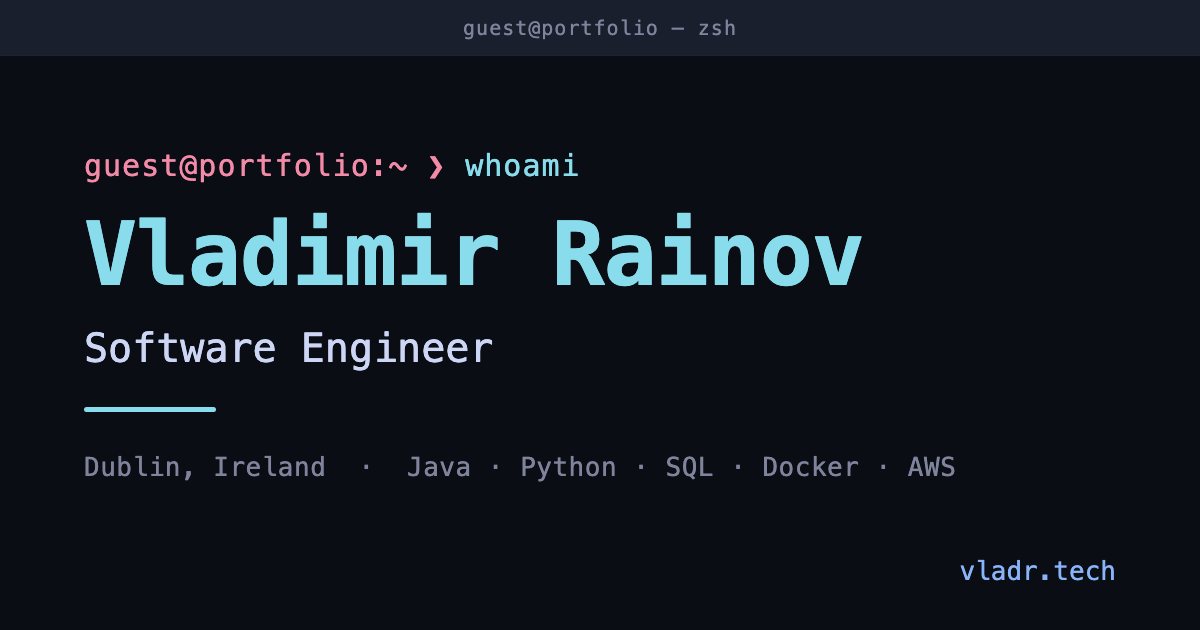
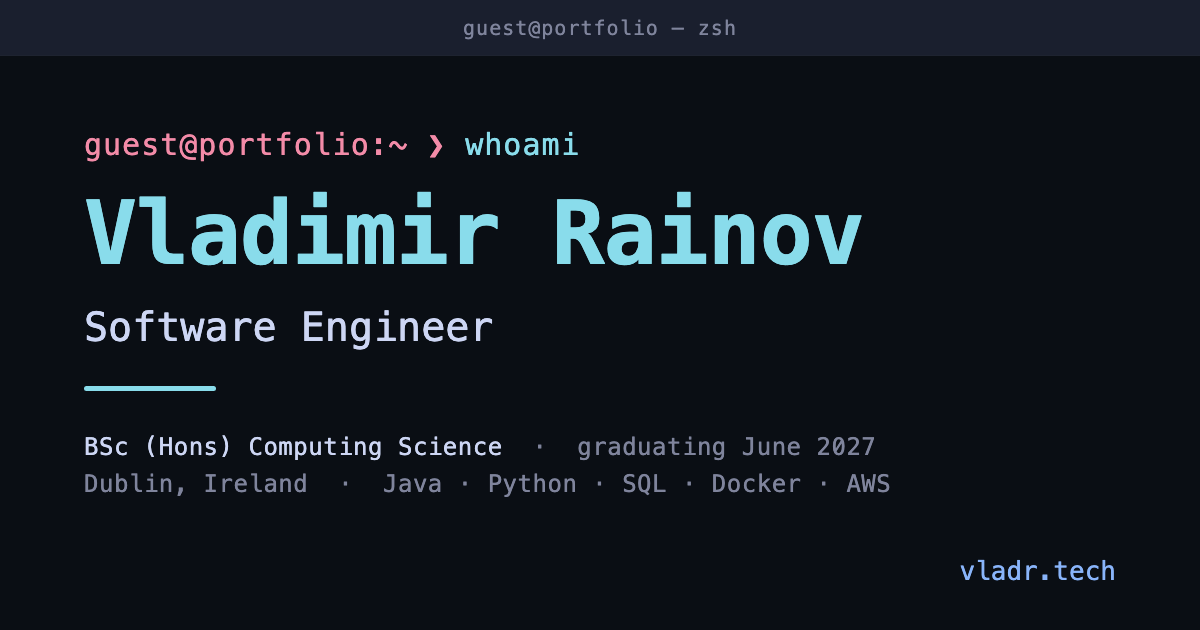
theme and fonts fixes

diff --git a/index.html b/index.html
@@ -4,9 +4,9 @@
   <meta charset="UTF-8" />
   <meta name="viewport" content="width=device-width, initial-scale=1.0" />
   <meta http-equiv="Content-Security-Policy" content="default-src 'self'; script-src 'self'; style-src 'self' https://fonts.googleapis.com; font-src 'self' https://fonts.gstatic.com; img-src 'self' data:; connect-src 'self';" />
-  <meta name="description" content="Vladimir Rainov — Software Engineer portfolio. Computing Science student at Griffith College Dublin." />
+  <meta name="description" content="Vladimir Rainov — Software Engineer portfolio. Final-year BSc (Hons) Computing Science student at Griffith College Dublin, graduating June 2027. Java, Python, SQL, Docker, Kubernetes, AWS. Seeking a graduate software engineering role in Dublin, Ireland." />
   <meta name="author" content="Vladimir Rainov" />
-  <meta name="keywords" content="software engineer, developer, portfolio, Dublin, Griffith College, cloud, DevOps, Linux" />
+  <meta name="keywords" content="graduate software engineer, software developer, portfolio, Dublin, Ireland, Griffith College, Java, Python, SQL, cloud, DevOps, Linux" />
   <title>Vladimir Rainov — Software Engineer Portfolio</title>
   <link rel="canonical" href="https://vladr.tech/" />
   <link rel="icon" href="/favicon.svg" type="image/svg+xml" />
@@ -16,7 +16,7 @@
   <meta property="og:type" content="profile" />
   <meta property="og:site_name" content="Vladimir Rainov — Portfolio" />
   <meta property="og:title" content="Vladimir Rainov — Software Engineer Portfolio" />
-  <meta property="og:description" content="Computing Science student at Griffith College Dublin. Experience in SQL/core banking systems, hardware integration, Linux, Docker, Kubernetes, AWS." />
+  <meta property="og:description" content="Final-year BSc (Hons) Computing Science student at Griffith College Dublin, graduating June 2027. Java, Python, SQL, Docker, Kubernetes, AWS. Seeking a graduate software engineering role in Dublin, Ireland." />
   <meta property="og:url" content="https://vladr.tech/" />
   <meta property="og:locale" content="en_IE" />
   <meta property="og:image" content="https://vladr.tech/assets/og.png" />
@@ -26,7 +26,7 @@
   <meta name="twitter:card" content="summary_large_image" />
   <meta name="twitter:image" content="https://vladr.tech/assets/og.png" />
   <meta name="twitter:title" content="Vladimir Rainov — Software Engineer Portfolio" />
-  <meta name="twitter:description" content="Computing Science student at Griffith College Dublin. Experience in SQL/core banking systems, hardware integration, Linux, Docker, Kubernetes, AWS." />
+  <meta name="twitter:description" content="Final-year BSc (Hons) Computing Science student at Griffith College Dublin, graduating June 2027. Java, Python, SQL, Docker, Kubernetes, AWS. Seeking a graduate software engineering role in Dublin, Ireland." />
 
   <!-- Structured data for crawlers / ATS systems.
        JSON-LD is data, never executed, so it is CSP-safe (script-src 'self'). -->
@@ -54,9 +54,21 @@
           "addressLocality": "Dublin",
           "addressCountry": "IE"
         },
+        "description": "Final-year BSc (Hons) Computing Science student at Griffith College Dublin, graduating June 2027. Seeking a graduate software engineering role.",
         "affiliation": {
           "@type": "CollegeOrUniversity",
-          "name": "Griffith College Dublin"
+          "name": "Griffith College Dublin",
+          "url": "https://www.griffith.ie/"
+        },
+        "hasCredential": {
+          "@type": "EducationalOccupationalCredential",
+          "name": "BSc (Hons) in Computing Science",
+          "credentialCategory": "degree",
+          "educationalLevel": "Bachelor's Degree (Honours)",
+          "recognizedBy": {
+            "@type": "CollegeOrUniversity",
+            "name": "Griffith College Dublin"
+          }
         },
         "sameAs": [
           "https://github.com/PeGoPaz",
@@ -138,6 +150,8 @@
   <noscript>
     <div class="noscript-notice">
       <p>This portfolio is an interactive terminal and requires JavaScript.</p>
+      <p>Vladimir Rainov — Software Engineer, Dublin. Final-year BSc (Hons) Computing
+      Science at Griffith College Dublin, graduating June 2027.</p>
       <p>You can still <a href="assets/cv.pdf" download>download my CV (PDF)</a>
       or email me at <a href="mailto:vl.rai@proton.me">vl.rai@proton.me</a>.</p>
     </div>

diff --git a/assets/og.html b/assets/og.html
@@ -19,7 +19,8 @@
   h1 { font-size:88px; font-weight:700; line-height:1.05; color:#89dceb;
        letter-spacing:-1px; }
   .role { font-size:40px; margin-top:24px; color:#cdd6f4; }
-  .meta { font-size:26px; margin-top:40px; color:#7f849c; letter-spacing:0.5px; }
+  .meta { font-size:24px; margin-top:38px; color:#7f849c; letter-spacing:0.5px; line-height:1.55; }
+  .meta strong { color:#cdd6f4; font-weight:400; }
   .rule { width:132px; height:5px; background:#89dceb; margin-top:36px; border-radius:3px; }
   .url { position:absolute; bottom:44px; right:84px; font-size:26px; color:#89b4fa; }
 </style></head>
@@ -29,7 +30,10 @@
   <h1>Vladimir Rainov</h1>
   <div class="role">Software Engineer</div>
   <div class="rule"></div>
-  <div class="meta">Dublin, Ireland &nbsp;·&nbsp; Java · Python · SQL · Docker · AWS</div>
+  <div class="meta">
+    <div><strong>BSc (Hons) Computing Science</strong> &nbsp;·&nbsp; graduating June 2027</div>
+    <div>Dublin, Ireland &nbsp;·&nbsp; Java · Python · SQL · Docker · AWS</div>
+  </div>
   <div class="url">vladr.tech</div>
 </body>
 </html>

diff --git a/styles/terminal.css b/styles/terminal.css
@@ -145,7 +145,7 @@
   background: color-mix(in srgb, var(--c-success) 6%, transparent);
   border-radius: 0 4px 4px 0;
 }
-.availability-row > :first-child { min-width: 80px; font-weight: 500; }
+.availability-row > :first-child { min-width: 104px; font-weight: 500; white-space: nowrap; }
 
 /* Skills */
 .skill-group { margin: 8px 0; }
